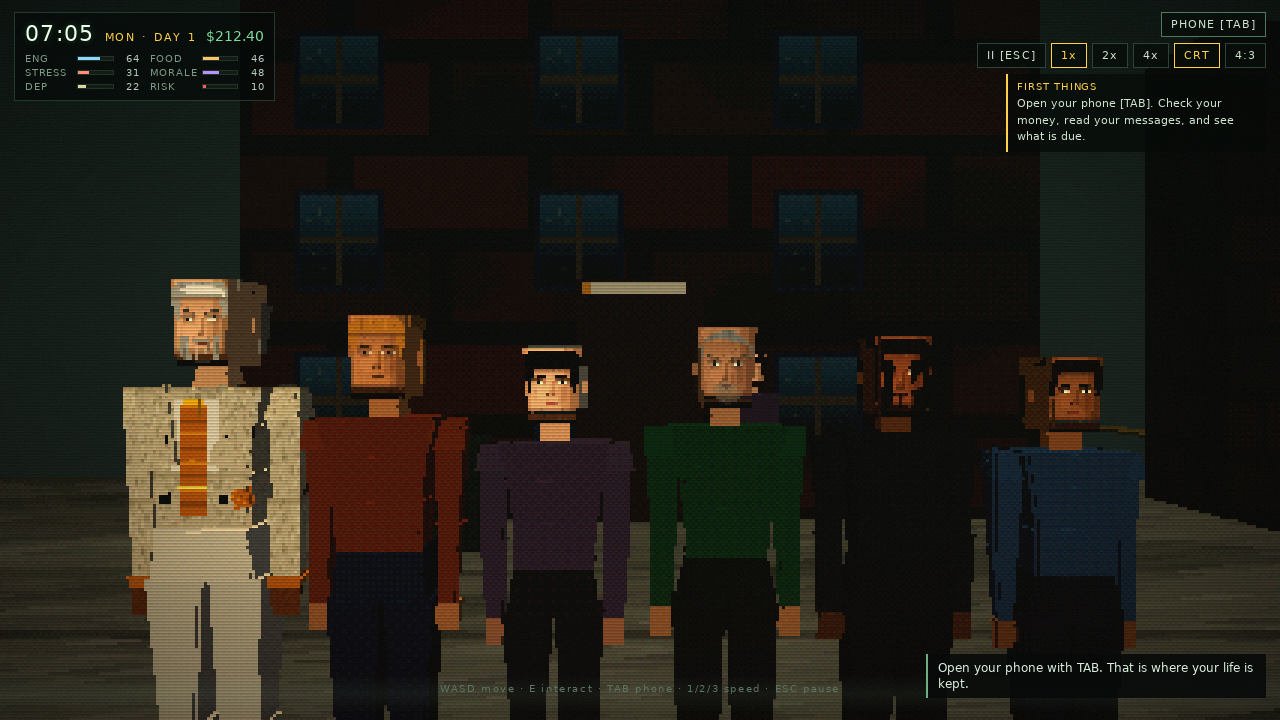
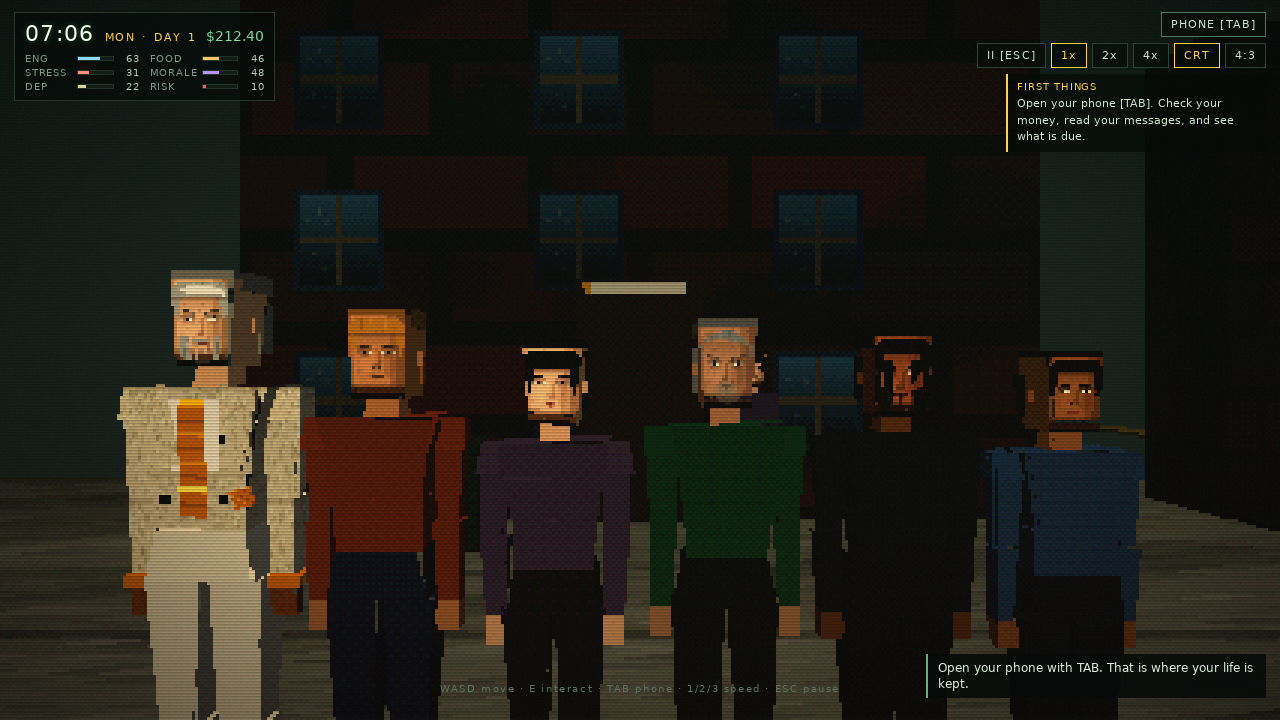
Break the head silhouette with a hair shelf and unify hair colours
The portrait no longer runs to the top of the skull as a rectangle, and each NPC's hair
geometry now matches the tone painted into their portrait.

diff --git a/src/world/characters.js b/src/world/characters.js
@@ -139,8 +139,10 @@ function buildBody({
   // ears sit on the cheek planes, just behind the face
   head.add(box(0.013 * k, 0.04 * k, 0.028 * k, skinMat, [-headW * 0.5, headH * 0.48, -0.022 * k]));
   head.add(box(0.013 * k, 0.04 * k, 0.028 * k, skinMat, [headW * 0.5, headH * 0.48, -0.022 * k]));
-  // crown and nape, offset back so they never cover the portrait
-  head.add(box(headW * 0.99, 0.034 * k, headD * 0.9, hair, [0, headH - 0.014 * k, -0.022 * k]));
+  // Hair shelf: overhangs the top of the portrait so the head silhouette starts with a
+  // hairline instead of running straight into a rectangle of face, and the crown reads as
+  // a volume from the side. The nape box closes the back of the skull.
+  head.add(box(headW * 1.04, 0.052 * k, headD * 0.99, hair, [0, headH - 0.004 * k, -0.008 * k]));
   head.add(box(headW * 0.98, headH * 0.6, 0.05 * k, hair, [0, headH * 0.46, -headD * 0.47]));
 
   // ---- arms: shoulder -> upper arm -> elbow -> forearm -> hand
@@ -245,11 +247,13 @@ export function createAddison() {
 }
 
 const PALETTES = {
-  rae: { shirt: 0x6d5a74, pants: 0x3a3442, skin: 0xc9a184, hair: 0x9a9a96, height: 1.66 },
-  dale: { shirt: 0x2f6b4a, pants: 0x26302a, skin: 0xc9a37c, hair: 0x4f4132, height: 1.72 },
-  dex: { shirt: 0x2a2f3a, pants: 0x20242c, skin: 0x7d5638, hair: 0x141414, height: 1.69 },
-  kev: { shirt: 0xa05a3a, pants: 0x33405a, skin: 0xd2a67c, hair: 0xc9a05a, height: 1.75 },
-  nia: { shirt: 0x4a6a8a, pants: 0x2f3a46, skin: 0xa87e58, hair: 0x2a1a14, height: 1.63 },
+  // hair values match the painted portraits in render/faces.js so the geometry and the
+  // texture read as one hairstyle rather than two different ones
+  rae: { shirt: 0x6d5a74, pants: 0x3a3442, skin: 0xe2c4a7, hair: 0x221d22, height: 1.66 },
+  dale: { shirt: 0x2f6b4a, pants: 0x26302a, skin: 0xc1a184, hair: 0x9d9c96, height: 1.72 },
+  dex: { shirt: 0x2a2f3a, pants: 0x20242c, skin: 0x8a6142, hair: 0x241812, height: 1.69 },
+  kev: { shirt: 0xa05a3a, pants: 0x33405a, skin: 0xc9a078, hair: 0xc49a52, height: 1.75 },
+  nia: { shirt: 0x4a6a8a, pants: 0x2f3a46, skin: 0xac805a, hair: 0x2a1a12, height: 1.63 },
 };
 
 export function createNPC(kind = 'kev') {
